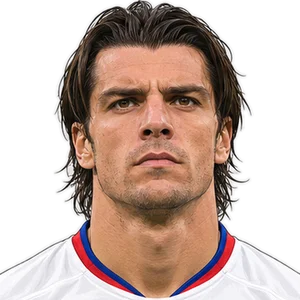
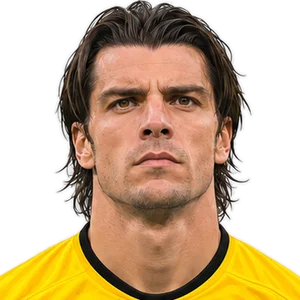
Portraits planche G1
Claude-Session: https://claude.ai/code/session_014bWuiPShrCqQyYskQc5RoJ

diff --git a/index.html b/index.html
@@ -1029,6 +1029,7 @@ const COUNTRY={"FR":"France","PT":"Portugal","RO":"Roumanie","DE":"Allemagne","B
 function flag(c){ if(!c) return ""; if(c==="ENG") return "\u{1F3F4}\u{E0067}\u{E0062}\u{E0065}\u{E006E}\u{E0067}\u{E007F}"; return String.fromCodePoint(...[...c].map(x=>0x1F1E6+x.charCodeAt(0)-65)); }
 const POS_NAME={GB:"Gardien",DC:"Défenseur central",DD:"Latéral droit",DG:"Latéral gauche",MDC:"Milieu défensif",MC:"Milieu central",MOC:"Meneur de jeu",AG:"Ailier gauche",AD:"Ailier droit",BU:"Avant-centre",COACH:"Entraîneur"};
 // Portraits illustrés disponibles (fichiers img/cartes/<id>.webp)
+const IMGV=2;
 const PORTRAITS=new Set(["abdul-kader-keita", "abner-vinicius", "adam-karabec", "afonso-moreira", "ainsley-maitland-niles", "alain-caveglia", "alejandro-rodriguez", "alexandre-lacazette", "aly-cissokho", "amine-gouiri", "anthony-lopes", "anthony-reveillere", "arnold-mvuemba", "bafetimbi-gomis", "bakary-kone", "benoit-pedretti", "bertrand-traore", "bradley-barcola", "bruno-guimaraes", "bryan-bergougnoux", "castello-lukeba", "cesar-delgado", "christophe-delmotte", "christophe-jallet", "ciprian-tatarusanu", "claudio-beauvue", "claudio-cacapa", "clement-grenier", "clinton-mata", "clinton-n-jie", "coach-alain-perrin", "coach-bruno-genesio", "coach-carlos-vicens", "coach-claude-puel", "coach-fabio-grosso", "coach-gerard-houllier", "coach-hubert-fournier", "coach-jacques-santini", "coach-jorge-maciel", "coach-laurent-blanc", "coach-paul-le-guen", "coach-paulo-fonseca", "coach-peter-bosz", "coach-pierre-sage", "coach-remi-garde", "coach-rudi-garcia", "coach-sylvinho", "corentin-tolisso", "cris", "damien-da-silva", "david-linares", "dejan-lovren", "dominik-greif", "duje-caleta-car", "ederson", "edmilson", "emanuel-mammana", "emerson-palmieri", "eric-abidal", "eric-carriere", "eric-deflandre", "ernest-nuamah", "fabio-grosso", "felix-bacher", "ferland-mendy", "fernando-marcal", "florent-laville", "florent-malouda", "francois-clerc", "fred", "frederic-kanoute", "frederic-nee", "georges-mikautadze", "gift-orban", "giovane-elber", "gregory-coupet", "gueida-fofana", "hans-hateboer", "hatem-ben-arfa", "henri-bedimo", "henrique", "houssem-aouar", "hugo-lloris", "islam-slimani", "jacek-bak", "jake-o-brien", "jason-denayer", "jean-alain-boumsong", "jean-ii-makoun", "jean-lucas", "jean-marc-chanelet", "jeff-reine-adelaide", "jeremie-brechet", "jeremy-berthod", "jeremy-clement", "jeremy-morel", "jeremy-pied", "jeremy-toulalan", "jerome-boateng", "jimmy-briand", "joachim-andersen", "johann-lepenant", "john-carew", "jordan-ferri", "jordan-veretout", "julian-pollersbeck", "julien-duranville", "juninho", "kail-boudache", "karim-benzema", "karl-toko-ekambi", "kayne-bonnevie", "keito-nakamura", "kenny-tete", "khalis-merah", "kim-kallstrom", "leo-dubois", "lisandro-lopez", "lois-openda", "lucas-paqueta", "lucas-perri", "lucas-tousart", "mads-bidstrup", "mahamadou-diarra", "mahamadou-diawara", "malick-fofana", "malo-gusto", "mama-balde", "mapou-yanga-mbiwa", "marc-vivien-foe", "marcelo", "mariano-diaz", "martin-satriano", "martin-terrier", "mathieu-bodmer", "mathieu-gorgelin", "mathieu-valbuena", "mattia-de-sciglio", "maxence-caqueret", "maxime-gonalons", "maxwel-cornet", "memphis-depay", "michael-essien", "michel-bastos", "miguel-lopes", "milan-baros", "milan-bisevac", "miralem-pjanic", "mohamed-yattara", "mouctar-diakhaby", "mouhamadou-dabo", "moussa-dembele", "moussa-niakhate", "myziane-maolida", "nabil-fekir", "nemanja-matic", "nicolas-nkoulou", "nicolas-puydebois", "nicolas-tagliafico", "nilmar", "noah-nartey", "orel-mangala", "pape-cheikh-diop", "patrick-muller", "paul-akouokou", "pavel-sulc", "peguy-luyindula", "philippe-violeau", "pierre-alain-frau", "pierre-laigle", "rachid-ghezzal", "rafael", "rayan-cherki", "remi-himbert", "remy-descamps", "remy-vercoutre", "ruben-kluivert", "sael-kumbedi", "said-benrahma", "samuel-umtiti", "sebastien-squillaci", "serge-blanc", "sergi-darder", "sidney-govou", "sinaly-diomande", "sonny-anderson", "steed-malbranque", "steve-marlet", "sylvain-wiltord", "tanguy-ndombele", "tanner-tessmann", "tete", "thiago-almada", "thiago-mendes", "tiago", "tino-kadewere", "tony-vairelles", "tyler-morton", "vikash-dhorasoo", "wilfried-zaha", "willem-geubbels", "yassine-benzia", "yoann-gourcuff", "youssouf-kone", "zachary-athekame"]);
 function cardTier(p){ return rarity(p); }
 const TIER_TAG={myth:"MYTHIQUE",icon:"LÉGENDAIRE",gold:"ÉPIQUE",silver:"RARE",bronze:"COMMUNE"};
@@ -1043,7 +1044,7 @@ function cardHTML(pid,opts={}){
   return `<div class="fcard ${cls}${mini?" mini":""}${opts.cls?" "+opts.cls:""}" style="--w:${w}px">
    <div class="fc-shine"></div>
    <div class="fc-top"><div class="fc-ovr">${ovr}</div><div class="fc-pos">${esc(pos)}</div>${mini?"":`<div class="fc-club">OL</div>${w>=140?`<div class="fc-flag">${flag(NAT[p.id])}</div>`:""}`}</div>
-   <div class="fc-face">${PORTRAITS.has(p.id)?`<img class="fc-img" src="img/cartes/${p.id}.webp" alt="" loading="lazy">`:`<svg viewBox="0 0 100 100"><circle cx="50" cy="36" r="19" fill="currentColor" opacity=".28"/><path d="M12 100c2-24 18-36 38-36s36 12 38 36z" fill="currentColor" opacity=".28"/>${mini?"":`<text x="50" y="43" text-anchor="middle" font-size="18" font-weight="900" fill="currentColor" opacity=".55">${esc(initials(p.name))}</text>`}</svg>`}</div>
+   <div class="fc-face">${PORTRAITS.has(p.id)?`<img class="fc-img" src="img/cartes/${p.id}.webp?v=${IMGV}" alt="" loading="lazy">`:`<svg viewBox="0 0 100 100"><circle cx="50" cy="36" r="19" fill="currentColor" opacity=".28"/><path d="M12 100c2-24 18-36 38-36s36 12 38 36z" fill="currentColor" opacity=".28"/>${mini?"":`<text x="50" y="43" text-anchor="middle" font-size="18" font-weight="900" fill="currentColor" opacity=".55">${esc(initials(p.name))}</text>`}</svg>`}</div>
    ${mini?"":`<div class="fc-name">${esc(shortN)}</div>`}
    ${mini||!st?(!mini&&p.pos[0]==="COACH"?`<div class="fc-coach">${esc(p.name)}<small>Entraîneur de l'OL</small></div>`:""):`<div class="fc-stats">${[0,3,1,4,2,5].map(i=>`<span><b>${st.vals[i]}</b>${st.labels[i]}</span>`).join("")}</div>`}
    ${mini?"":`<div class="fc-tag">${p.pos[0]==="COACH"?"COACH · ":""}${TIER_TAG[t]}</div>`}
